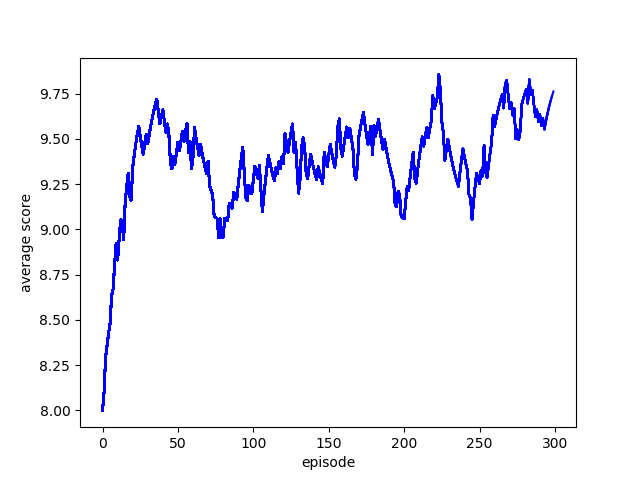
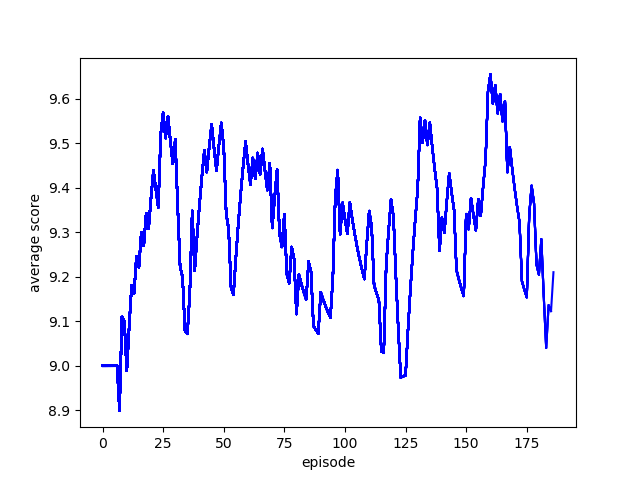
modify train

diff --git a/KDH/RL/4-test/4-cartpole-PolicyGradient/train.py b/KDH/RL/4-test/4-cartpole-PolicyGradient/train.py
@@ -23,7 +23,7 @@ class REINFORCE(tf.keras.Model):
 
 class REINFORCEAgent:
     def __init__(self, state_size, action_size):
-        self.render = True
+        self.render = False
         self.state_size = state_size
         self.action_size = action_size
 
@@ -34,7 +34,6 @@ class REINFORCEAgent:
         self.optimizer = Adam(lr=self.learning_rate)
 
         self.states, self.actions, self.rewards = [], [], []
-        self.discounted_reward = []
 
     def get_action(self, state):
         policies = self.model(state)[0]
@@ -50,26 +49,32 @@ class REINFORCEAgent:
 
     def discounted_rewards(self):
         n = len(self.rewards)
-        self.discounted_reward = [0.0] * n
+
+        discounted_reward = np.zeros_like(self.rewards)
         before = 0
         for t in reversed(range(n)):
-            self.discounted_reward[t] = before * self.discount_factor + self.rewards[t]
-            before = self.discounted_reward[t]
+            discounted_reward[t] = before * self.discount_factor + self.rewards[t]
+            before = discounted_reward[t]
+        return discounted_reward
 
     def train_model(self):
-        agent.discounted_rewards()
+        discounted_rewards = np.float32(self.discounted_rewards())
+        discounted_rewards -= np.mean(discounted_rewards)
+        discounted_rewards /= np.std(discounted_rewards)
+
         model_params = self.model.trainable_variables
         with tf.GradientTape() as tape:
             tape.watch(model_params)
 
             policies = self.model(np.array(self.states))
             actions = np.array(self.actions)
-            cross_entropy = -tf.math.log(tf.reduce_sum(policies * actions, axis = 1) + 1e-5)
-            loss = tf.reduce_sum(cross_entropy * self.discounted_reward)
+            cross_entropy = -tf.math.log(tf.reduce_sum(actions * policies, axis = 1) + 1e-5)
+            loss = tf.reduce_sum(cross_entropy * discounted_rewards)
             self.entropy = np.mean(-policies * tf.math.log(policies))
 
         grads = tape.gradient(loss, model_params)
         self.optimizer.apply_gradients(zip(grads, model_params))
+        self.states, self.actions, self.rewards = [], [], []
     
 
 if __name__ == "__main__":
@@ -82,7 +87,7 @@ if __name__ == "__main__":
     scores, episodes = [], []
     score_avg = 0
 
-    num_episode = 300
+    num_episode = 3000
 
     for e in range(num_episode):
         done = False
@@ -108,7 +113,6 @@ if __name__ == "__main__":
 
             if done:
                 agent.train_model()
-                print(agent.entropy)
 
                 score_avg = 0.9 * score_avg + 0.1 * score if score_avg != 0 else score
                 print("episode: {:3d} | score: {:3.2f} | entropy: {:.3f}".format(
@@ -125,4 +129,7 @@ if __name__ == "__main__":
                 if score_avg > 400:
                     agent.model.save_weights("./save_model/model", save_format="tf")
                     sys.exit()
+
+
+    env.close()
             
